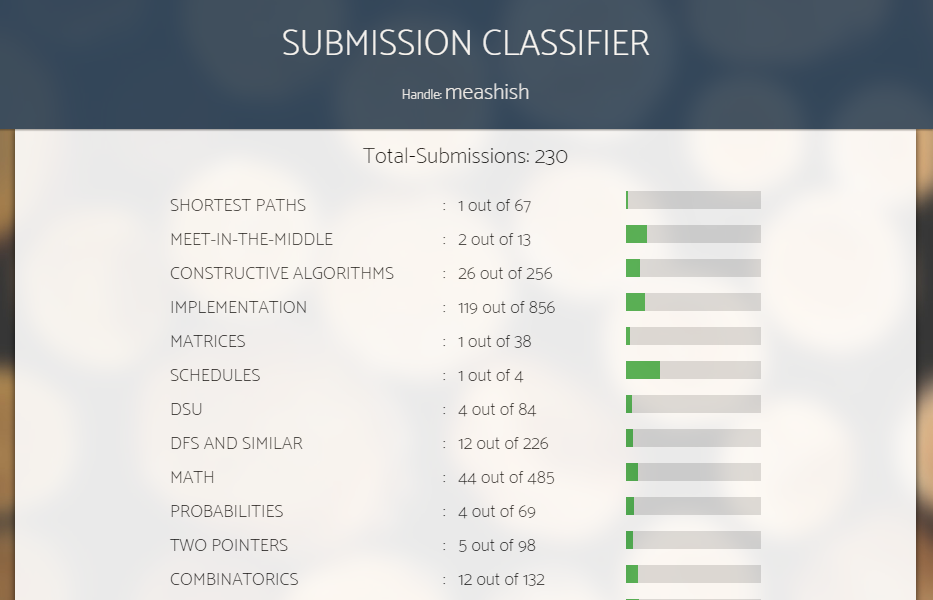
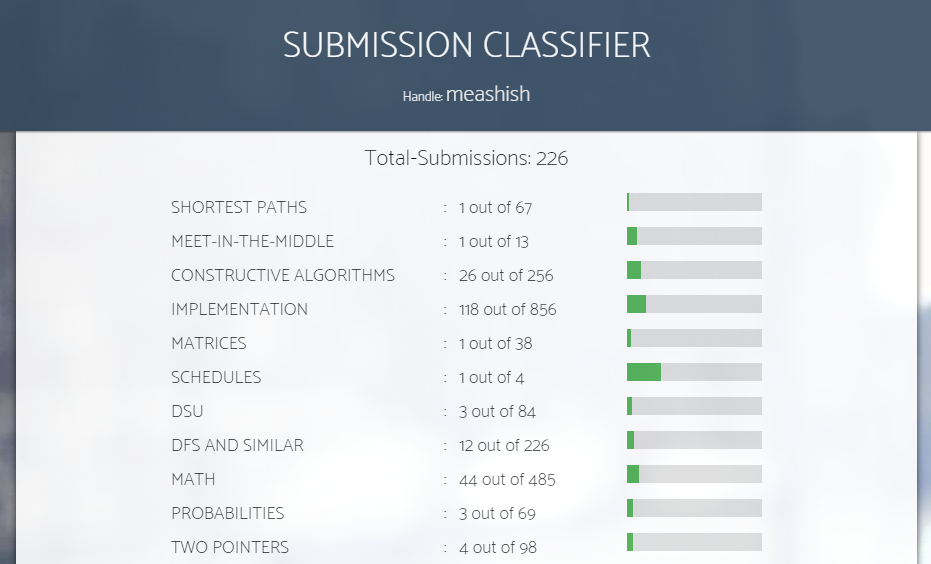
Bug Fixes

diff --git a/codeforces_importer/classifier/templates/index.html b/codeforces_importer/classifier/templates/index.html
@@ -9,7 +9,7 @@
 </head>
 
 <body>
-    <script src="https://ajax.googleapis.com/ajax/libs/jquery/2.1.1/jquery.min.js"></script>
+
     <div id="mainContent">
         <div id="title" class="header">
             <span>SUBMISSION CLASSIFIER</span>
@@ -67,6 +67,7 @@
     {% set counter = counter + 1 -%}
     {% endfor -%}
 
+    <script src="https://ajax.googleapis.com/ajax/libs/jquery/2.1.1/jquery.min.js"></script>
     <script>
         var stickyHeaders = (function () {
             var $stickies, $offset;

diff --git a/codeforces_importer/classifier/templates/style.css b/codeforces_importer/classifier/templates/style.css
@@ -231,7 +231,8 @@ body {
     min-height: 50rem;
     background-attachment: fixed;
     background-repeat: no-repeat;
-    background-image: url('https://graygrids.com/demos/snippets/startup-fw-pricing-table/assets/img/bg.jpg');
+    /*background-image: url('https://graygrids.com/demos/snippets/startup-fw-pricing-table/assets/img/bg.jpg');*/
+    background-image: url("https://i.ytimg.com/vi/Q3_fuZVyFtY/maxresdefault.jpg");
 }
 
 * {

diff --git a/codeforces_importer/classifier/classifier.py b/codeforces_importer/classifier/classifier.py
@@ -10,7 +10,7 @@ class Classifier:
     """
 
     def __init__(self):
-        self.problem_list = []
+        self.problem_list = set()
         
         self.problem_tags = defaultdict(set)
         self.problem_id = {}
@@ -23,17 +23,25 @@ class Classifier:
     def add(self, problem, submission_id, relative_path):
         """Adds a problem and submission details to Classifier."""
 
-        problem_url = urlgen.generate_problem_url(problem.contest_id, problem.index)
-        submission_url = urlgen.generate_submission_url(problem.contest_id, submission_id)
+        # Checks if the submission is a resubmission over existing problem
+        if problem.name not in self.problem_id:
 
-        self.problem_list.append(problem.name)
+            problem_url = urlgen.generate_problem_url(problem.contest_id, problem.index)
+            submission_url = urlgen.generate_submission_url(problem.contest_id, submission_id)
 
-        # add to all the tags
-        for tag in problem.tags:
-            self.problem_tags[tag].add(problem.name)
-            self.category_count[tag] += 1
+            self.problem_list.add(problem.name)
 
-        self.problem_id[problem.name] = str(problem.contest_id) + '-' + problem.index
-        self.problem_link[problem.name] = problem_url
-        self.submission_link[problem.name] = submission_url
-        self.local_path_link[problem.name] = relative_path
+            # add to all the tags
+            for tag in problem.tags:
+                self.problem_tags[tag].add(problem.name)
+                self.category_count[tag] += 1
+
+            self.problem_id[problem.name] = str(problem.contest_id) + '-' + problem.index
+            self.problem_link[problem.name] = problem_url
+            self.submission_link[problem.name] = submission_url
+            self.local_path_link[problem.name] = relative_path
+
+    def add_problem_tag(self, problem, tag):
+        """Adds problem to category and increment category count by 1"""
+
+        self.category_total_count[tag] += 1;

diff --git a/codeforces_importer/problem_importer.py b/codeforces_importer/problem_importer.py
@@ -1,3 +1,4 @@
+import sys
 import httprequest
 from urlbuilder import Urlbuilder
 from config import Codeforces
@@ -5,24 +6,23 @@ from config import PublicMethods
 from exception import RequestFailureException
 
 
-def fetch_problems_by_category(classifier):
+def fetch_problems_by_category():
     """Fetches problems from Codeforces API and perform category-wise count"""
 
     try:
         url = Urlbuilder(Codeforces.API_URL, PublicMethods.PROBLEM_SET)
         response = httprequest.send_get_request(url.get_url())
         if response is not None:
-            json = response.json();
+            json = response.json()
             if 'status' in json:
                 if json['status'] == 'OK':
                     result = json['result']
                     problem_list = result['problems']
-                    for problem in problem_list:
-                        for tag in problem['tags']:
-                            classifier.category_total_count[tag] += 1
+                    return problem_list
                 else:
-                    raise RequestFailureException('Request Failed' + json['comment']);
+                    raise RequestFailureException('Request Failed' + json['comment'])
             else:
-                raise RequestFailureException('Request Failed: Invalid response');
+                raise RequestFailureException('Request Failed: Invalid response')
     except RequestFailureException as ex:
         print ex.message
+        sys.exit(1);

diff --git a/codeforces_importer/importer.py b/codeforces_importer/importer.py
@@ -32,7 +32,10 @@ def import_codes(handle, dir_path='.\log\\', max_sub_lim=10000):
             classifier = Classifier()
 
             # fetch problems from Codeforces API
-            problem_importer.fetch_problems_by_category(classifier);
+            problem_list = problem_importer.fetch_problems_by_category()
+            for problem in problem_list:
+                for tag in problem['tags']:
+                    classifier.add_problem_tag(problem, tag)
 
             # ensures directory creation
             ensure_dir_creation(dir_path)
@@ -128,7 +131,8 @@ def get_file_name(problem_id, problem_name):
 def resolve(problem_name):
     """Removes symbols from problem_name inappropriate for file-name"""
 
-    problem_name = problem_name.replace('/', '').replace('\\', '').replace(' ', '_');
+    problem_name = problem_name.replace('/', '').replace('\\', '').replace(' ', '_').replace(':', '').replace(':','')
+    problem_name = problem_name.replace('?', '').replace('<', '').replace('>', '').replace('"', '').replace('*', '');
     return problem_name
 
 

diff --git a/codeforces_importer/file_io.py b/codeforces_importer/file_io.py
@@ -13,10 +13,10 @@ def write_to_file(file_path, content):
     try:
         file_handle = os.open(file_path, WRITE_FLAGS)
         with os.fdopen(file_handle, 'w') as file_obj:
-            file_obj.write(content)
+            file_obj.write(content.encode('utf-8'))
     except OSError as ex:
-        print 'Error: ' + ex.strerror
+        print 'Error File I/O: ' + ex.strerror
         raise ex
     except ValueError as ex:
-        print 'Error: ' + ex.message
+        print 'Error File I/O: ' + ex.message
         raise ex

diff --git a/codeforces_importer/source_code_extractor.py b/codeforces_importer/source_code_extractor.py
@@ -28,7 +28,7 @@ def extract_source_code(contest_id, submission_id):
     try:
         if len(code) > 0:
             # replaces all '\\r\\n' with '\r\n'
-            return fix_eol(str(code[0]));
+            return fix_eol(code[0])
         else:
             # received empty content. unable to extract submission using html parser
             raise ValueError('Empty Content')

diff --git a/codeforces_importer/cfi_ignore.py b/codeforces_importer/cfi_ignore.py
@@ -37,7 +37,7 @@ class CfiIgnore:
                 content = str(ignore_file.read(1000000))
                 self.ignore_list = content.split(';')
         except (OSError, IOError) as ex:
-            print 'CfiIgnore Error: ' + ex.strerror
+            pass
 
     def write_ignore_list(self):
         """Writes ignore list to cfiignore file in dir_path directory"""
